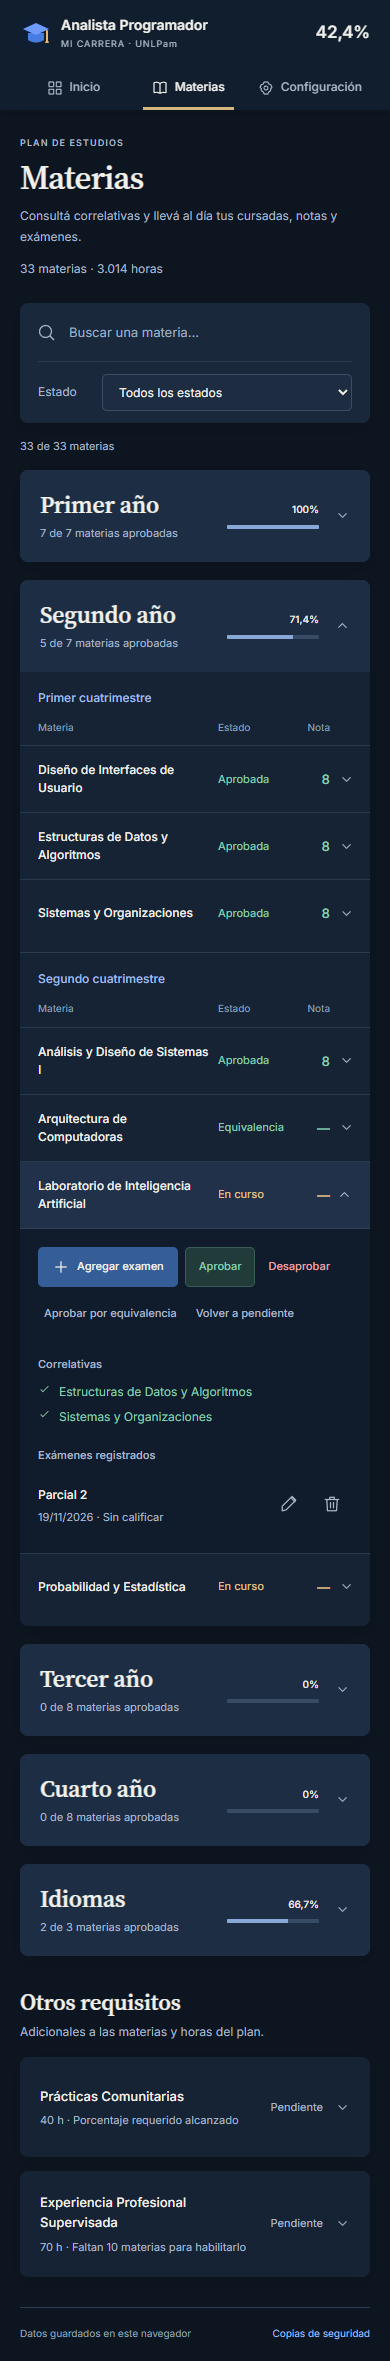
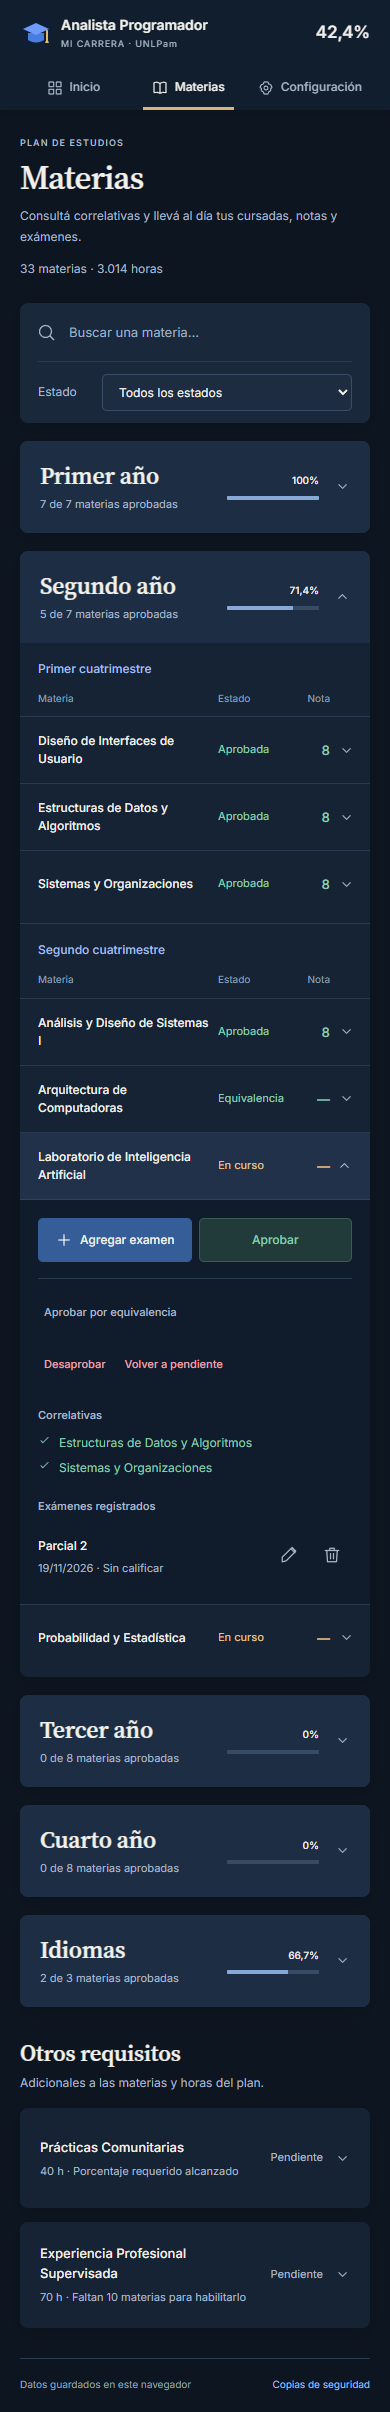
fix: pulir detalles de materias, filtros y acciones móviles

diff --git a/js/render.js b/js/render.js
@@ -74,26 +74,31 @@ export function renderDash() {
 }
 
 function subjectRow(m, data) {
-  const s = ms(data,m.n), reason = bloqueoActivar(data,m.n), btns = [];
-  if (s.e !== 'aprobada' && s.e !== 'en-curso') btns.push(action('activate',s.e === 'desaprobada' ? 'Reintentar cursada' : 'Iniciar cursada',m.id,'primary',reason ? 'disabled' : ''));
+  const s = ms(data,m.n), reason = bloqueoActivar(data,m.n);
+  const primary = [], secondary = [], stateActions = [];
+  if (s.e !== 'aprobada' && s.e !== 'en-curso') primary.push(action('activate',s.e === 'desaprobada' ? 'Reintentar cursada' : 'Iniciar cursada',m.id,'primary',reason ? 'disabled' : ''));
   if (s.e === 'en-curso') {
-    btns.push(action('exam-add',icon('plus')+'Agregar examen',m.id,'primary'));
-    btns.push(action('approve','Aprobar',m.id,'success',reason ? 'disabled' : ''));
-    btns.push(action('fail','Desaprobar',m.id,'quiet danger'));
+    primary.push(action('exam-add',icon('plus')+'Agregar examen',m.id,'primary'));
+    primary.push(action('approve','Aprobar',m.id,'success',reason ? 'disabled' : ''));
+    stateActions.push(action('fail','Desaprobar',m.id,'quiet danger'));
   }
-  if (s.e === 'aprobada') btns.push(action(s.equivalencia ? 'equivalence' : 'approve','Editar aprobación',m.id));
-  if (s.e !== 'aprobada') btns.push(action('equivalence','Aprobar por equivalencia',m.id,'quiet'));
-  if (s.e !== 'pendiente') btns.push(action('revert',s.e === 'aprobada' ? 'Revertir aprobación' : 'Volver a pendiente',m.id,'quiet'));
+  if (s.e === 'aprobada') primary.push(action(s.equivalencia ? 'equivalence' : 'approve','Editar aprobación',m.id));
+  if (s.e !== 'aprobada') secondary.push(action('equivalence','Aprobar por equivalencia',m.id,'quiet'));
+  if (s.e !== 'pendiente') stateActions.push(action('revert',s.e === 'aprobada' ? 'Revertir aprobación' : 'Volver a pendiente',m.id,'quiet danger'));
   return `<details class="subject ${s.e}" id="subject-${m.id}">
-    <summary class="subject-summary">
+    <summary class="subject-summary" aria-controls="detail-${m.id}">
       <span class="subject-name">${html(m.n)}</span>
       <span class="subject-hours"><span class="sr-only">Carga horaria: </span>${m.h} h</span>
       <span class="subject-status ${color(s.e)}">${s.equivalencia && s.e === 'aprobada' ? 'Equivalencia' : STATUS[s.e]}</span>
       <span class="subject-grade ${color(s.e)}"><span class="sr-only">Nota final: </span>${s.nota == null ? '—' : html(s.nota)}</span>
       <span class="chevron">${icon('chevron')}</span>
     </summary>
-    <div class="subject-detail">
-      <div class="button-row">${btns.join('')}</div>
+    <div class="subject-detail" id="detail-${m.id}" role="region" aria-label="Detalle de ${html(m.n)}">
+      <div class="subject-detail-heading"><h3>${html(m.n)}</h3><button class="icon-btn" data-action="close-subject" data-subject="${m.id}" aria-label="Cerrar detalle de ${html(m.n)}">${icon('close')}</button></div>
+      <div class="subject-actions">
+        <div class="button-row subject-primary-actions${primary.length === 1 ? ' single-action' : ''}" role="group" aria-label="Acciones principales">${primary.join('')}</div>
+        ${secondary.length || stateActions.length ? `<div class="subject-secondary-actions" role="group" aria-label="Otras acciones">${secondary.join('')}${stateActions.length ? `<div class="button-row subject-state-actions" role="group" aria-label="Cambios de estado">${stateActions.join('')}</div>` : ''}</div>` : ''}
+      </div>
       ${reason && s.e !== 'aprobada' ? `<p class="notice">${icon('lock')} ${html(reason)}${s.e === 'en-curso' ? ' Se conserva tu cursada registrada.' : ''}</p>` : ''}
       <div class="detail-grid">
         <div><h3>Correlativas</h3><div class="corr-list">${m.r.length ? m.r.map(n => `<span class="${ms(data,n).e === 'aprobada' ? 'green' : 'muted'}">${icon(ms(data,n).e === 'aprobada' ? 'check' : 'circle')}${html(n)}</span>`).join('') : '<p>Sin correlativas del plan.</p>'}</div></div>
@@ -110,13 +115,15 @@ function semesterColumn(mats, label, data) {
 }
 
 export function renderMats() {
-  const data = getState(), query = $('search').value.normalize('NFD').replace(/[\u0300-\u036f]/g,'').toLowerCase(), filter = $('status-filter').value;
+  const data = getState(), query = $('search').value.trim().normalize('NFD').replace(/[\u0300-\u036f]/g,'').toLowerCase(), filter = $('status-filter').value;
   const matches = m => {
     const s = ms(data,m.n);
     return m.n.normalize('NFD').replace(/[\u0300-\u036f]/g,'').toLowerCase().includes(query) && (filter === 'all' || (filter === 'equivalencia' ? s.e === 'aprobada' && s.equivalencia : s.e === filter));
   };
   const visible = SUBJECTS.filter(matches);
-  $('result-count').textContent = `${visible.length} de ${TOTAL_M} materias`;
+  const filtering = query.length > 0 || filter !== 'all';
+  $('result-count').hidden = !filtering;
+  $('result-count').textContent = filtering ? `${visible.length} de ${TOTAL_M} materias` : '';
   $('plan-count').textContent = `${TOTAL_M} materias · ${TOTAL_H.toLocaleString('es-AR')} horas`;
   const groups = [1,2,3,4,'ing'].map(year => {
     const all = SUBJECTS.filter(m => year === 'ing' ? m.n.startsWith('Inglés') : m.a === year && !m.n.startsWith('Inglés'));
@@ -131,9 +138,27 @@ export function renderMats() {
     return `<details class="panel year-block" id="year-${year}" ${query || filter !== 'all' ? 'open' : ''}>
       <summary class="year-summary"><div class="year-name"><h2>${year === 'ing' ? 'Idiomas' : ['Primer','Segundo','Tercer','Cuarto'][year-1]+' año'}</h2><p>${ap} de ${all.length} materias aprobadas</p></div><div class="year-progress"><div class="bar-label"><strong><span class="sr-only">Avance: </span>${pct(ap/all.length*100)}%</strong></div>${bar(ap/all.length*100)}</div><span class="chevron">${icon('chevron')}</span></summary>
       <div class="semester-grid ${year === 'ing' || new Set(mats.map(m => m.c)).size === 1 ? 'single-semester' : ''}">${columns}</div>
+      <div class="year-subject-details" hidden></div>
     </details>`;
   }).join('');
   $('mat-list').innerHTML = (visible.length ? groups : `<div class="panel empty-state"><h3>No encontramos materias</h3><p>Probá otro nombre o cambiá el filtro.</p></div>`) + renderOtros(data);
+}
+
+// Reuse the same detail DOM and controls at both widths. On desktop the open
+// regions sit below both terms, so one expanded row cannot stretch its column.
+export function syncSubjectDetails() {
+  const active = document.activeElement;
+  const wide = window.matchMedia('(min-width: 1051px)').matches;
+  document.querySelectorAll('.year-block').forEach(year => {
+    const host = year.querySelector('.year-subject-details');
+    year.querySelectorAll('.subject').forEach(row => {
+      const detail = $(row.querySelector('summary').getAttribute('aria-controls'));
+      const target = wide && row.open ? host : row;
+      if (detail.parentElement !== target) target.append(detail);
+    });
+    host.hidden = !host.children.length;
+  });
+  if (active?.isConnected && active.closest('.subject-detail') && active.getClientRects().length && document.activeElement !== active) active.focus({preventScroll:true});
 }
 
 function renderOtros(data) {
@@ -150,10 +175,11 @@ function renderOtros(data) {
 export function renderAll() {
   const openIds = new Set([...document.querySelectorAll('#mat-list details[open]')].map(el => el.id));
   const active = document.activeElement;
-  const focus = active && { id:active.id, action:active.dataset.action, subject:active.dataset.subject, exam:active.dataset.id, details:active.closest('details')?.id };
+  const focus = active && { id:active.id, action:active.dataset.action, subject:active.dataset.subject, exam:active.dataset.id, details:active.dataset.subject ? 'subject-'+active.dataset.subject : active.closest('details')?.id };
   const scroll = window.scrollY;
   renderDash(); renderMats();
   openIds.forEach(id => { const el = $(id); if (el) el.open = true; });
+  syncSubjectDetails();
   $('data-warning').hidden = !getReadError(); $('data-warning').textContent = getReadError();
   if (!$('page-configuracion').hidden) renderBackups();
   if (focus && !active.isConnected) {
@@ -171,5 +197,5 @@ export function renderBackups() {
     const date = new Date(Number(key.split('_')[2])).toLocaleString('es-AR');
     const reason = key.includes('pre_import') ? 'Antes de importar' : key.includes('migration') ? 'Antes de migrar a V2' : 'Copia de seguridad';
     return `<div class="backup-item"><div><strong>${date}</strong><span>${reason}</span></div><button class="btn small" data-action="backup-download" data-id="${html(key)}" aria-label="Descargar copia del ${html(date)} en JSON">${icon('download')}JSON</button></div>`;
-  }).join('') : '<div class="backup-empty"><h3>Todavía no hay copias automáticas</h3><p>Cuando importes datos o se actualice su formato, el estado anterior aparecerá acá. Podés exportar una copia manual en cualquier momento.</p></div>';
+  }).join('') : '<div class="backup-empty"><h3>Todavía no hay copias guardadas</h3><p>Cuando importes datos o se actualice su formato, el estado anterior aparecerá acá. Podés exportar una copia manual en cualquier momento.</p></div>';
 }

diff --git a/css/styles.css b/css/styles.css
@@ -165,14 +165,14 @@ main { max-width: 1248px; margin: auto; padding: 32px 24px 24px; outline: none; 
 .icon-btn:hover { background: var(--surface2); color: var(--text); }
 
 /* Each year is a chapter; the two terms share a stable column alignment. */
-.toolbar { display: flex; align-items: center; gap: 24px; padding: 12px 18px; background: #19283b; }
+.toolbar { display: flex; align-items: center; gap: 24px; padding: 12px 18px; margin-bottom: 18px; background: #19283b; }
 .search-field { display: flex; align-items: center; gap: 11px; flex: 1; color: var(--muted); min-width: 0; }
 .search-field input { background: transparent; border: 0; color: var(--text); width: 100%; min-width: 0; min-height: 34px; font-size: 13px; }
 .search-field input::placeholder { color: #9fafc2; }
 .filter-field { display: flex; align-items: center; gap: 12px; font-size: 12px; color: var(--muted); }
 select, input.field-input { background: #1d2c40; border: 1px solid #3a4d66; color: var(--text); padding: 9px 12px; border-radius: 5px; width: 100%; min-width: 0; }
 select { width: auto; }
-.result-count { font-size: 11px; margin: 15px 0; }
+.result-count { font-size: 11px; margin: 0 0 15px; }
 .year-block { margin-bottom: 18px; overflow: clip; }
 .year-summary { display: flex; align-items: center; gap: 24px; padding: 20px 26px; background: #1d2e44; list-style: none; cursor: pointer; }
 .year-summary:hover { background: #24374f; }
@@ -203,6 +203,14 @@ details[open] > .year-summary .chevron, details[open] > .subject-summary .chevro
 .subject-status { font-size: 11px; font-weight: 450; line-height: 1.4; padding-left: 4px; }
 .subject-grade { text-align: right; font-size: 13px; font-weight: 550; font-variant-numeric: tabular-nums; }
 .subject-detail { padding: 18px 22px 22px; background: #101c2b; border-top: 1px solid #304359; }
+.subject-detail-heading { display: none; }
+.year-subject-details > .subject-detail { padding: 20px 26px 26px; }
+.year-subject-details .subject-detail-heading { display: flex; justify-content: space-between; align-items: center; gap: 20px; margin-bottom: 16px; }
+.subject-detail-heading h3 { font-size: 16px; font-weight: 550; }
+.year-subject-details .detail-grid { grid-template-columns: 1fr 1fr; gap: 36px; }
+.subject-actions { display: flex; flex-wrap: wrap; align-items: center; gap: 14px 24px; }
+.subject-secondary-actions { display: flex; flex-wrap: wrap; align-items: center; gap: 10px 20px; }
+.subject-state-actions { border-left: 1px solid var(--border); padding-left: 14px; }
 .subject-detail .notice { margin: 14px 0 0; font-size: 12px; }
 .detail-grid { display: grid; grid-template-columns: 1fr 1.2fr; gap: 20px; margin-top: 22px; }
 .detail-grid h3 { font-size: 11px; font-weight: 550; color: var(--muted); margin-bottom: 10px; }
@@ -338,6 +346,13 @@ dialog::backdrop { background: #050c16cc; }
   .year-progress .bar-label { font-size: 10px; }
   .column-labels, .subject-summary { padding-left: 18px; padding-right: 18px; }
   .subject-detail { padding: 18px; }
+  .subject-actions { display: block; }
+  .subject-primary-actions { display: grid; grid-template-columns: repeat(2,minmax(0,1fr)); gap: 10px; }
+  .subject-primary-actions.single-action { grid-template-columns: 1fr; }
+  .subject-secondary-actions { display: flex; align-items: flex-start; flex-direction: column; gap: 12px; border-top: 1px solid var(--border); margin-top: 16px; padding-top: 14px; }
+  .subject-secondary-actions > .btn { justify-content: flex-start; }
+  .subject-state-actions { border-left: 0; padding-left: 0; width: 100%; gap: 12px; }
+  .subject-state-actions > .btn { justify-content: flex-start; }
   .semester-label { padding-left: 18px; }
   .detail-grid, .single-semester .detail-grid { grid-template-columns: 1fr; }
   .requirements-grid { grid-template-columns: 1fr; gap: 14px; }
@@ -375,6 +390,7 @@ dialog::backdrop { background: #050c16cc; }
   .subject-detail .button-row { gap: 7px; }
   .subject-detail .btn { font-size: 11px; }
   .subject-detail .btn.quiet { padding-left: 5px; padding-right: 5px; }
+  .subject-detail .subject-primary-actions > .btn { min-width: 0; min-height: 44px; padding: 10px 8px; font-size: 12px; }
   .req-title strong { font-size: 13px; }
   .req-title p { font-size: 11px; }
   .requirement .subject-status { max-width: 70px; }

diff --git a/js/actions.js b/js/actions.js
@@ -1,7 +1,7 @@
 import { SUBJECTS, EXAM_TYPES, normalizeState, ms, newExamId, stats } from './core.js';
 import { getState, dispatch, exportData, replaceLocal, downloadJSON } from './state.js';
 import { html } from './ui.js';
-import { renderBackups } from './render.js';
+import { renderBackups, syncSubjectDetails } from './render.js';
 const $ = id => document.getElementById(id);
 let submitHandler = null, returnFocus = null, busy = false;
 export function toast(message) {
@@ -10,7 +10,7 @@ export function toast(message) {
 }
 export function openModal(title, body, label, handler) {
   const el = document.activeElement;
-  returnFocus = { el, details:el.closest('details')?.id, action:el.dataset.action, subject:el.dataset.subject, exam:el.dataset.id };
+  returnFocus = { el, details:el.dataset.subject ? 'subject-'+el.dataset.subject : el.closest('details')?.id, action:el.dataset.action, subject:el.dataset.subject, exam:el.dataset.id };
   $('modal-title').textContent=title; $('modal-body').innerHTML=body;
   $('modal-submit').textContent=label; $('modal-error').textContent='';
   submitHandler=handler; $('modal').showModal();
@@ -47,6 +47,12 @@ export function initActions() {
     const m=SUBJECTS.find(m => m.id === subject);
     try {
       if (action === 'export') { exportData(); toast('Backup exportado'); }
+      else if (action === 'close-subject') {
+        const row=$('subject-'+subject);
+        row.open=false;
+        syncSubjectDetails();
+        row.querySelector('summary').focus({preventScroll:true});
+      }
       else if (action === 'import') $('import-file').click();
       else if (action === 'backup-download') downloadJSON(localStorage.getItem(id),id+'.json');
       else if (action === 'activate' || action === 'fail') { await dispatch({type:action,subject}); toast(action === 'activate' ? 'Cursada iniciada' : 'Estado actualizado'); }

diff --git a/index.html b/index.html
@@ -36,7 +36,7 @@
     <section id="page-materias" class="page" aria-label="Materias" hidden>
       <div class="page-heading"><div><div class="eyebrow">PLAN DE ESTUDIOS</div><h1>Materias</h1><p>Consultá correlativas y llevá al día tus cursadas, notas y exámenes.</p></div><span class="plan-total" id="plan-count"></span></div>
       <div class="toolbar panel"><div class="search-field"><span data-icon="search"></span><label class="sr-only" for="search">Buscar materia por nombre</label><input id="search" type="search" placeholder="Buscar una materia…" autocomplete="off"></div><div class="filter-field"><label for="status-filter">Estado</label><select id="status-filter"><option value="all">Todos los estados</option><option value="aprobada">Aprobadas</option><option value="en-curso">En curso</option><option value="pendiente">Pendientes</option><option value="desaprobada">Desaprobadas</option><option value="equivalencia">Por equivalencia</option></select></div></div>
-      <p class="result-count" id="result-count" aria-live="polite"></p>
+      <p class="result-count" id="result-count" aria-live="polite" hidden></p>
       <div id="mat-list"></div>
     </section>
     <section id="page-configuracion" class="page" aria-label="Configuración" hidden>
@@ -57,7 +57,7 @@
           <div class="storage-note"><span data-icon="shield"></span><p><strong>Guardado en este navegador</strong>Conservá una copia externa antes de cambiar de dispositivo o borrar el almacenamiento del navegador.</p></div>
         </article>
         <article class="panel backup-history">
-          <h2>Copias automáticas</h2>
+          <h2>Copias de seguridad</h2>
           <p class="section-description">Estados anteriores guardados antes de una importación o migración. Podés descargarlos para recuperarlos.</p>
           <div id="backup-list"></div>
         </article>

diff --git a/js/app.js b/js/app.js
@@ -1,6 +1,6 @@
 import { subscribe, getState } from './state.js';
 import { SUBJECTS, ms } from './core.js';
-import { renderAll, renderMats, renderBackups } from './render.js';
+import { renderAll, renderMats, renderBackups, syncSubjectDetails } from './render.js';
 import { initActions } from './actions.js';
 import { hydrateIcons } from './ui.js';
 const $=id => document.getElementById(id);
@@ -20,8 +20,13 @@ function filter() {
   const open = [...document.querySelectorAll('#mat-list details[open]')].map(el => el.id);
   renderMats();
   open.forEach(id => { const el=$(id); if (el) el.open=true; });
+  syncSubjectDetails();
 }
 hydrateIcons(); initActions();
+$('mat-list').addEventListener('toggle',event => {
+  if (event.target.matches('.subject')) syncSubjectDetails();
+},true);
+window.matchMedia('(min-width: 1051px)').addEventListener('change',syncSubjectDetails);
 subscribe(renderAll); renderAll();
 const initialSubject = SUBJECTS.find(m => ms(getState(),m.n).e === 'en-curso') || SUBJECTS.find(m => ms(getState(),m.n).e !== 'aprobada') || SUBJECTS.at(-1);
 $('year-' + (initialSubject.n.startsWith('Inglés') ? 'ing' : initialSubject.a)).open=true;

diff --git a/docs/revision-visual.md b/docs/revision-visual.md
@@ -26,12 +26,20 @@ Todas usan el mismo estado de prueba: 14 materias aprobadas, 2 en curso, una equ
 | Materias | [Captura](materias-desktop-1920.png) | [Captura](materias-desktop.png) | [Captura](materias-desktop-1280.png) | [Captura](materias-mobile.png) |
 | Configuración | [Captura](configuracion-desktop-1920.png) | [Captura](configuracion-desktop.png) | [Captura](configuracion-desktop-1280.png) | [Captura](configuracion-mobile.png) |
 
-La captura de Materias muestra el segundo año y una materia en curso desplegada para revisar nombres largos, correlativas, exámenes y acciones. La altura del bloque abierto depende del contenido; el cuatrimestre contiguo conserva su alineación superior.
+La captura de Materias muestra el segundo año y una materia en curso desplegada. En desktop, el detalle ocupa un panel a ancho completo debajo de ambos cuatrimestres; expandirlo no estira una columna ni agrega ese espacio vacío a la otra. En mobile, el mismo detalle vuelve a ubicarse junto a su materia, conservando sus controles e información.
+
+## Última pasada puntual
+
+- El contador de resultados permanece oculto si no hay una búsqueda o un filtro activo; ignorar espacios evita activarlo con una búsqueda vacía.
+- El historial se titula **Copias de seguridad**. Las copias se crean antes de importar o migrar datos, no mediante un programa periódico.
+- En mobile, **Agregar examen** y **Aprobar** forman el grupo principal. La equivalencia y los cambios de estado se presentan separados, sin introducir menús adicionales.
+- Los detalles desktop tienen contexto de materia y control de cierre. Se conserva la apertura por teclado, el foco al cambiar de tamaño y la posibilidad de mantener varios detalles abiertos.
+- Se actualizaron las capturas afectadas de esta misma galería; no se agregaron variantes de versiones anteriores.
 
 ## Comprobación
 
 - 17 pruebas de dominio y almacenamiento aprobadas; no se modificaron las reglas académicas ni el formato de persistencia en esta ronda.
-- 37 comprobaciones de navegador aprobadas, incluidas las funciones locales, foco, actualizaciones inmediatas y navegación.
+- 50 comprobaciones de navegador aprobadas, incluidas las funciones locales, foco, actualizaciones inmediatas y navegación.
 - Sin desbordes horizontales en las tres vistas a 1920, 1440, 1280, 768 y 390 px.
 - Sin errores JavaScript ni solicitudes a servicios externos.
 - Recursos y tipografías disponibles bajo `/mi-carrera/`.

diff --git a/docs/validacion.md b/docs/validacion.md
@@ -3,7 +3,7 @@
 Fecha: 16 de noviembre de 2026. Entorno: Node.js 24 y Microsoft Edge con Playwright, en un contexto aislado.
 
 - `npm test`: **17 pruebas aprobadas**, sin fallos.
-- `node scripts/run-browser-qa.mjs`: **37 comprobaciones aprobadas**, sin errores JavaScript. Resultado detallado: [browser-qa.json](browser-qa.json).
+- `node scripts/run-browser-qa.mjs`: **50 comprobaciones aprobadas**, sin errores JavaScript. Resultado detallado: [browser-qa.json](browser-qa.json).
 - Responsive: Inicio, Materias y Configuración a **1920, 1440, 1280, 768 y 390 px**, sin desbordes horizontales.
 - Revisión visual: dashboard, materias y configuración en desktop y mobile, más favicon rasterizado a 16 px.
 - Migración: copia exacta anterior y agregado determinista de IDs; notas, propiedades y requisitos se conservan. Se probó idempotencia y bloqueo seguro ante fallos.
@@ -13,6 +13,7 @@ Fecha: 16 de noviembre de 2026. Entorno: Node.js 24 y Microsoft Edge con Playwri
 - Accesibilidad: campos identificados, navegación por teclado, foco dentro del diálogo, Escape para cerrar y restauración del foco.
 - Recursos: respuestas HTTP 200 para SVG, PNG, iconos móviles, manifest, CSS y módulos bajo `/mi-carrera/`. Navegación por fragmentos compatible con hosting estático.
 - Revisión visual adicional: sin recuadros numerados, abreviaturas, barras laterales o pills redundantes; cuatrimestres alineados en desktop y buscador mobile con ancho útil.
+- Ajustes puntuales: detalle desktop a ancho completo sin alterar las alturas de los cuatrimestres; detalle inline y grupos de acciones separados en mobile; contador condicional; título Copias de seguridad.
 - Navegación: recupera la posición de lectura por vista y abre el año con cursadas activas.
 - Fuentes locales cargadas correctamente; ninguna solicitud de la aplicación a servicios externos.
 - `git diff --check`: sin errores de formato.

diff --git a/README.md b/README.md
@@ -49,7 +49,7 @@ node scripts/generate-icons.mjs
 
 ## Revisión visual
 
-La iteración actual usa superficies de mayor contraste y una jerarquía tipográfica académica. Los encabezados de año no incluyen recuadros numerados y las filas no muestran abreviaturas o identificadores internos. En desktop los cuatrimestres se presentan en paralelo, con horas, estado y nota alineados.
+La iteración actual usa superficies de mayor contraste y una jerarquía tipográfica académica. Los encabezados de año no incluyen recuadros numerados y las filas no muestran abreviaturas o identificadores internos. En desktop los cuatrimestres se presentan en paralelo, con horas, estado y nota alineados. Los detalles abiertos ocupan el ancho completo debajo de ambos cuatrimestres; en mobile vuelven a su fila y separan las acciones principales de las secundarias. El contador de resultados aparece solo al buscar o filtrar, y el historial de Configuración se titula Copias de seguridad.
 
 Se incluyen Inter y Source Serif 4 como archivos locales con sus licencias. La aplicación no solicita fuentes ni servicios externos. Los detalles de la revisión y las doce capturas están en [docs/revision-visual.md](docs/revision-visual.md).
 
